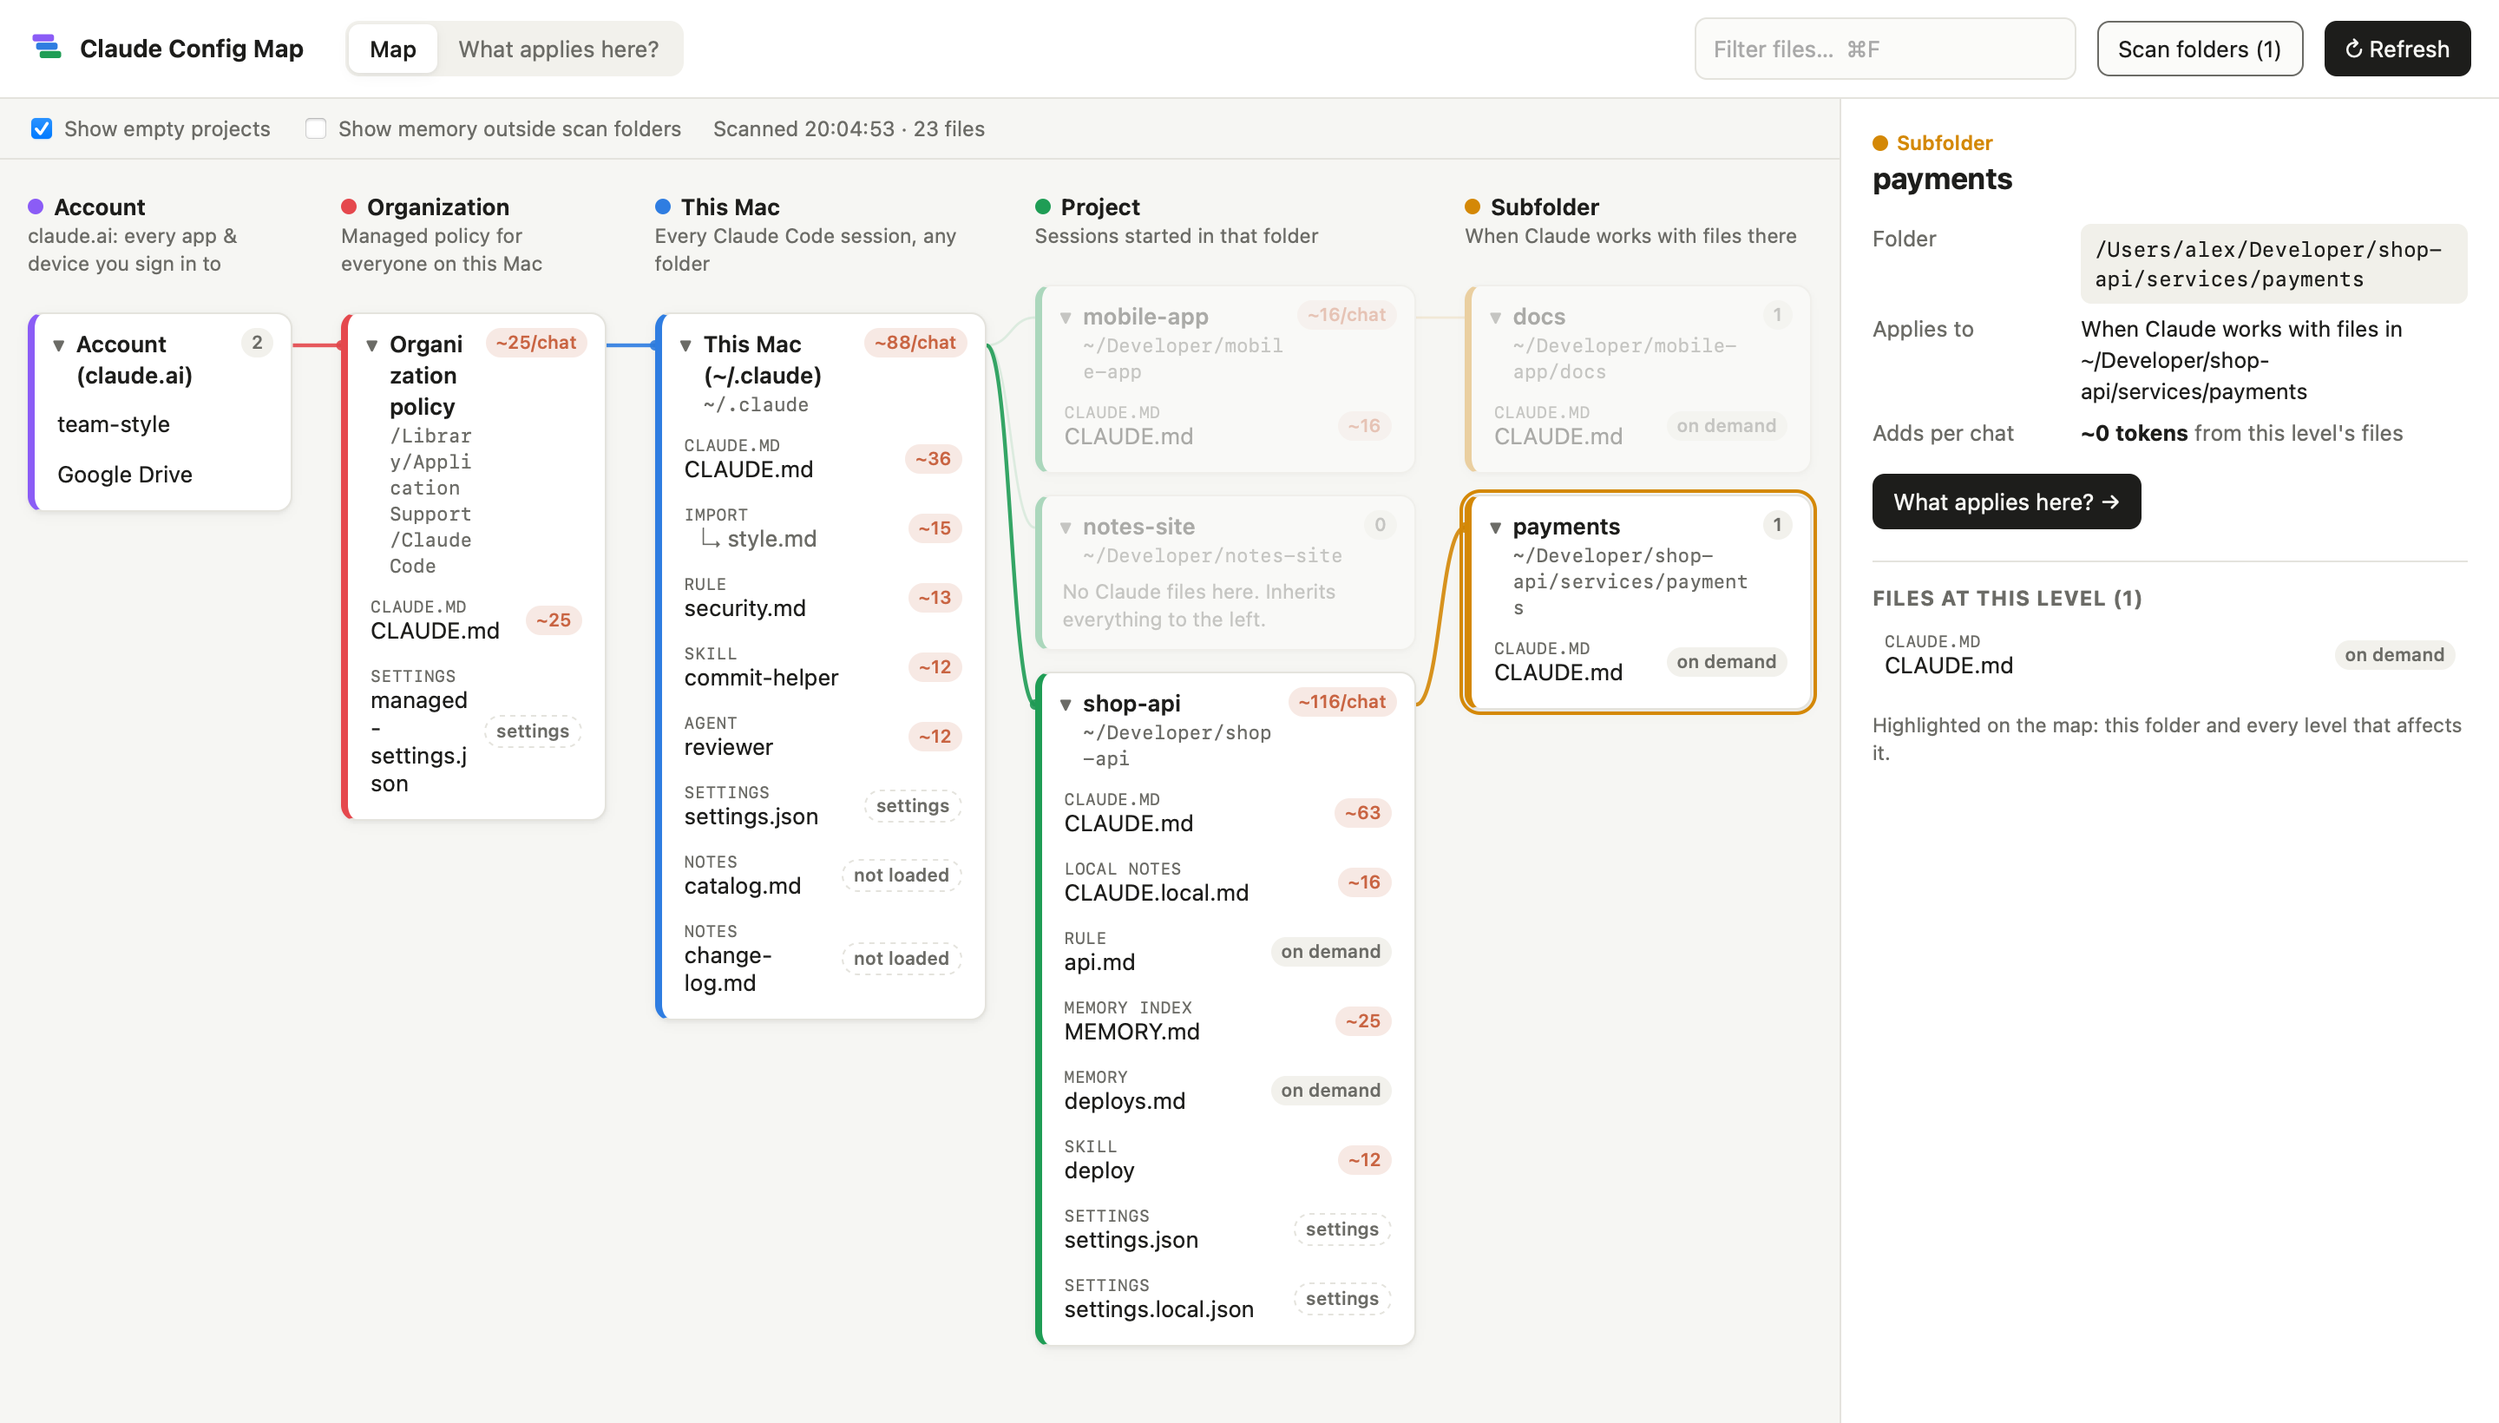
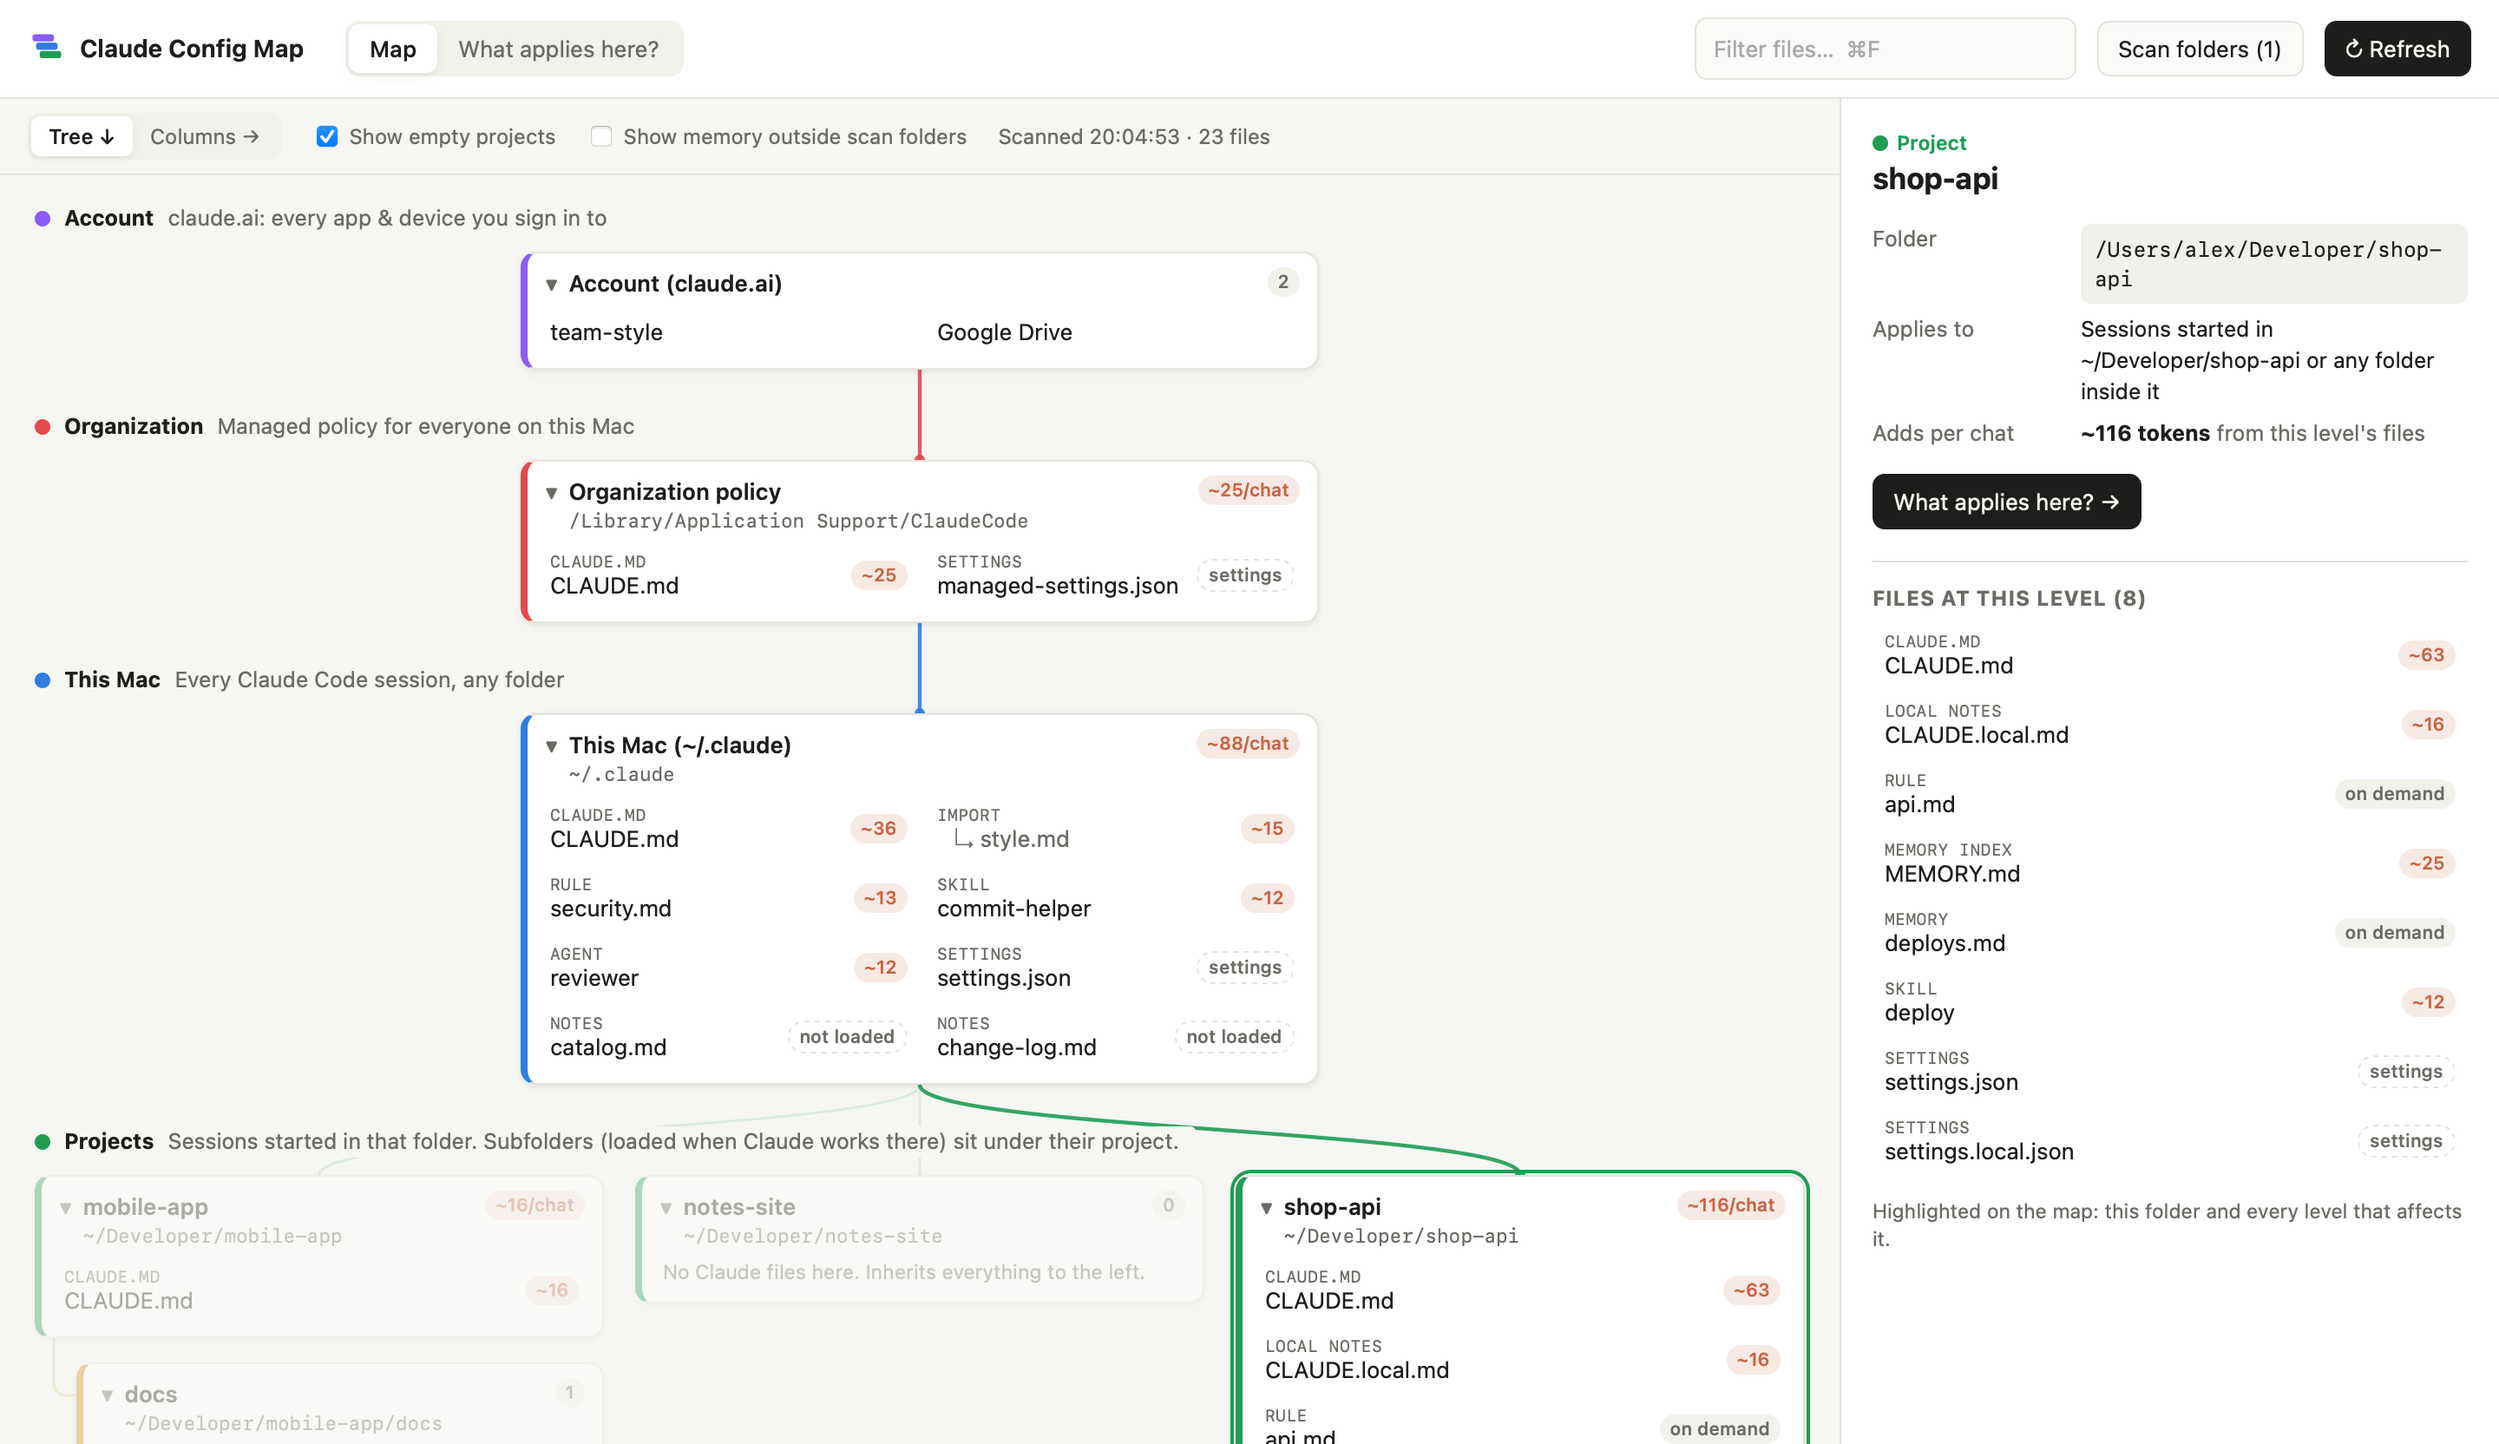
Add top-down tree layout with a Tree/Columns toggle
Tree is the default: levels as rows, projects in a wrapping grid, subfolders
nested under their project. The choice is remembered per viewer.

diff --git a/Resources/web/app.js b/Resources/web/app.js
@@ -40,7 +40,8 @@
 
   // ---------- state ----------
   const S = { data: null, view: 'map', sel: null, selScope: null, filter: '', stack: null, stackPath: null, raw: false,
-              optEmpty: true, optOutside: false, collapsed: new Set() };
+              optEmpty: true, optOutside: false, collapsed: new Set(), layout: 'tree' };
+  try { const l = localStorage.getItem('layout'); if (l === 'tree' || l === 'columns') S.layout = l; } catch (e) { /* storage unavailable */ }
   let scopeById = {}, filesByScope = {}, childrenOf = {}, fileById = {};
 
   function index() {
@@ -120,9 +121,21 @@
   function renderMap() {
     if (!S.data) return;
     const hl = highlightSet();
-    const cols = LEVELS.map(L => {
+    const map = $('#map');
+    map.classList.toggle('tree', S.layout === 'tree');
+    document.querySelectorAll('.layout-toggle button').forEach(b => b.classList.toggle('active', b.dataset.layout === S.layout));
+    map.innerHTML = (S.layout === 'tree' ? treeHTML(hl) : columnsHTML(hl)) + '<svg class="links"></svg>';
+    map.style.setProperty('--subcol', S.data.scopes.some(s => s.level === 'subfolder') ? 'minmax(200px, 1fr)' : 'minmax(130px, .5fr)');
+    requestAnimationFrame(drawLinks);
+  }
+
+  const projectSort = (a, b) => (!!a.outside - !!b.outside) || (!a.folder - !b.folder) || a.label.localeCompare(b.label);
+
+  // Left-to-right: one column per level.
+  function columnsHTML(hl) {
+    return LEVELS.map(L => {
       let scopes = S.data.scopes.filter(s => s.level === L.key && visible(s));
-      if (L.key === 'project') scopes.sort((a, b) => (!!a.outside - !!b.outside) || (!a.folder - !b.folder) || a.label.localeCompare(b.label));
+      if (L.key === 'project') scopes.sort(projectSort);
       if (L.key === 'subfolder') { // keep subfolders roughly in their project's order
         const order = S.data.scopes.filter(s => s.level === 'project').map(s => s.id);
         const top = s => { let x = s; while (x && x.level === 'subfolder') x = scopeById[x.parent]; return x ? order.indexOf(x.id) : 0; };
@@ -131,9 +144,25 @@
       return `<div class="col" data-level="${L.key}"><div class="col-head"><div class="t"><span class="dot" style="background:${lc(L.key)}"></span>${L.name}</div><div class="d">${L.desc}</div></div>
         ${scopes.map(s => cardHTML(s, hl)).join('') || (L.key === 'subfolder' ? '<div class="empty-note">No nested CLAUDE.md or .claude folders in subfolders.</div>' : '')}</div>`;
     }).join('');
-    $('#map').innerHTML = cols + '<svg class="links"></svg>';
-    $('#map').style.setProperty('--subcol', S.data.scopes.some(s => s.level === 'subfolder') ? 'minmax(200px, 1fr)' : 'minmax(130px, .5fr)');
-    requestAnimationFrame(drawLinks);
+  }
+
+  // Top-down: one row per level; subfolders nest under their project.
+  function treeHTML(hl) {
+    const head = (key, name, desc) => `<div class="tier-head"><span class="dot" style="background:${lc(key)}"></span><strong>${name}</strong><span class="muted">${desc}</span></div>`;
+    const tier = (key, name, desc, inner) => `<div class="tier" data-level="${key}">${head(key, name, desc)}${inner}</div>`;
+    let html = ['account', 'org', 'mac'].map(k => {
+      const L = LEVELS.find(x => x.key === k);
+      return tier(k, L.name, L.desc, `<div class="tier-cards">${S.data.scopes.filter(s => s.level === k).map(s => cardHTML(s, hl)).join('')}</div>`);
+    }).join('');
+    const folders = S.data.scopes.filter(s => s.folder && visible(s));
+    if (folders.length) html += tier('folder', 'Parent folders', 'A CLAUDE.md here applies to every project inside', `<div class="tier-cards">${folders.map(s => cardHTML(s, hl)).join('')}</div>`);
+    const subs = id => (childrenOf[id] || []).map(c => scopeById[c]).filter(s => s.level === 'subfolder')
+      .map(s => `<div class="sub">${cardHTML(s, hl)}${subs(s.id)}</div>`).join('');
+    const projects = S.data.scopes.filter(s => s.level === 'project' && !s.folder && visible(s)).sort(projectSort);
+    const grid = projects.map(p => { const k = subs(p.id); return `<div class="pgroup">${cardHTML(p, hl)}${k ? `<div class="subs">${k}</div>` : ''}</div>`; }).join('');
+    html += tier('project', 'Projects', 'Sessions started in that folder. Subfolders (loaded when Claude works there) sit under their project.',
+      `<div class="pgrid">${grid || '<div class="empty-note">No projects yet. Add a scan folder.</div>'}</div>`);
+    return html;
   }
 
   function drawLinks() {
@@ -141,19 +170,32 @@
     if (!svg) return;
     const mr = map.getBoundingClientRect();
     const hl = highlightSet();
+    const tree = S.layout === 'tree';
     const pos = {};
-    map.querySelectorAll('.card').forEach(c => { const r = c.getBoundingClientRect(); pos[c.dataset.scope] = { l: r.left - mr.left, r: r.right - mr.left, y: r.top - mr.top + 19 }; });
+    map.querySelectorAll('.card').forEach(c => {
+      const r = c.getBoundingClientRect();
+      pos[c.dataset.scope] = { l: r.left - mr.left, r: r.right - mr.left, t: r.top - mr.top, b: r.bottom - mr.top, cx: (r.left + r.right) / 2 - mr.left, y: r.top - mr.top + 19 };
+    });
     let paths = '';
     for (const s of S.data.scopes) {
       const a = pos[s.parent], b = pos[s.id];
       if (!a || !b) continue;
       const on = hl ? (hl.has(s.id) && hl.has(s.parent)) : true;
       const col = lc(s.level === 'project' && s.folder ? 'folder' : s.level);
-      let d;
-      if (Math.abs(a.l - b.l) < 5) { const x = a.l - 2; d = `M${x},${a.y} C${x - 26},${a.y} ${x - 26},${b.y} ${x},${b.y}`; }
-      else { const x1 = a.r, x2 = b.l, mx = (x1 + x2) / 2; d = `M${x1},${a.y} C${mx},${a.y} ${mx},${b.y} ${x2},${b.y}`; }
+      let d, dot;
+      if (tree && s.level === 'subfolder') { // elbow from the parent's left edge down into the nested card
+        const x = a.l + 11;
+        d = `M${x},${a.b} L${x},${b.y - 8} Q${x},${b.y} ${x + 8},${b.y} L${b.l},${b.y}`; dot = [b.l, b.y];
+      } else if (tree) {
+        const my = (a.b + b.t) / 2;
+        d = `M${a.cx},${a.b} C${a.cx},${my} ${b.cx},${my} ${b.cx},${b.t}`; dot = [b.cx, b.t];
+      } else if (Math.abs(a.l - b.l) < 5) {
+        const x = a.l - 2; d = `M${x},${a.y} C${x - 26},${a.y} ${x - 26},${b.y} ${x},${b.y}`; dot = [x, b.y];
+      } else {
+        const x1 = a.r, x2 = b.l, mx = (x1 + x2) / 2; d = `M${x1},${a.y} C${mx},${a.y} ${mx},${b.y} ${x2},${b.y}`; dot = [x2, b.y];
+      }
       paths += `<path d="${d}" fill="none" stroke="${col}" stroke-width="${hl && on ? 2.2 : 1.4}" stroke-opacity="${hl ? (on ? 0.9 : 0.12) : 0.45}"/>`;
-      if (!hl || on) paths += `<circle cx="${Math.abs(a.l - b.l) < 5 ? b.l - 2 : b.l}" cy="${b.y}" r="3" fill="${col}" fill-opacity="${hl ? 0.9 : 0.6}"/>`;
+      if (!hl || on) paths += `<circle cx="${dot[0]}" cy="${dot[1]}" r="3" fill="${col}" fill-opacity="${hl ? 0.9 : 0.6}"/>`;
     }
     svg.setAttribute('width', map.scrollWidth); svg.setAttribute('height', map.scrollHeight);
     svg.innerHTML = paths;
@@ -320,6 +362,8 @@
   document.addEventListener('click', async e => {
     const t = e.target;
     const tab = t.closest('.tabs button'); if (tab) return setView(tab.dataset.view);
+    const lay = t.closest('.layout-toggle button');
+    if (lay) { S.layout = lay.dataset.layout; try { localStorage.setItem('layout', S.layout); } catch (e) { /* ignore */ } renderMap(); return; }
     if (t.closest('#rootsBtn')) { $('#rootsPop').hidden = !$('#rootsPop').hidden; return; }
     if (t.closest('#addRoot')) { $('#rootsPop').hidden = true; if (await call('addRoot')) refresh(); return; }
     const rm = t.closest('[data-remove]'); if (rm) { await call('removeRoot', { path: rm.dataset.remove }); refresh(); return; }
@@ -360,6 +404,7 @@
   window.__refresh = refresh;
   window.__focusSearch = () => { setView('map'); $('#search').focus(); };
   window.__setup = async (o = {}) => {
+    if (o.layout) { S.layout = o.layout; renderMap(); }
     if (o.optOutside) { S.optOutside = true; $('#optOutside').checked = true; renderMap(); }
     if (o.selectFile) { const f = S.data.files.find(x => x.display === o.selectFile || x.id === o.selectFile); if (f) { S.sel = f.id; renderMap(); renderDetail(); } }
     if (o.selectScope) { const s = S.data.scopes.find(x => x.label === o.selectScope); if (s) { S.selScope = s.id; renderMap(); renderDetail(); } }

diff --git a/Resources/web/style.css b/Resources/web/style.css
@@ -88,6 +88,23 @@ main { flex: 1; display: flex; min-height: 0; }
 .ld-on-demand { background: var(--chip); color: var(--muted); }
 .ld-not-in-context, .ld-not-loaded, .ld-account { background: transparent; color: var(--muted); border: 1px dashed var(--line); }
 
+/* Layout toggle */
+.layout-toggle { display: flex; background: var(--chip); border-radius: 7px; padding: 2px; }
+.layout-toggle button { border: 0; background: none; padding: 3px 10px; border-radius: 5px; cursor: pointer; color: var(--muted); font-size: 12px; }
+.layout-toggle button.active { background: var(--panel); color: var(--text); box-shadow: var(--shadow); font-weight: 550; }
+
+/* Tree (top-down) layout */
+.map.tree { display: flex; flex-direction: column; gap: 24px; min-width: 0; padding: 14px 20px 48px; }
+.tier { position: relative; z-index: 1; }
+.tier-head { display: flex; gap: 8px; align-items: baseline; margin-bottom: 10px; font-size: 12.5px; flex-wrap: wrap; width: fit-content; max-width: 100%; background: var(--bg); padding-right: 10px; border-radius: 4px; }
+.tier-head .dot { align-self: center; }
+.tier-cards { display: flex; justify-content: center; gap: 16px; flex-wrap: wrap; }
+.tier-cards .card { width: min(460px, 100%); }
+.tier-cards .card .chips { display: grid; grid-template-columns: repeat(auto-fill, minmax(190px, 1fr)); }
+.pgrid { display: grid; grid-template-columns: repeat(auto-fill, minmax(250px, 1fr)); gap: 22px 18px; align-items: start; }
+.subs { padding-left: 24px; margin-top: 14px; display: flex; flex-direction: column; gap: 12px; }
+.sub > .sub { padding-left: 24px; margin-top: 12px; }
+
 /* Detail panel */
 .detail { width: 380px; flex: none; border-left: 1px solid var(--line); background: var(--panel); overflow: auto; padding: 16px 18px 40px; }
 .detail h2 { margin: 0 0 4px; font-size: 17px; overflow-wrap: anywhere; }

diff --git a/Resources/web/index.html b/Resources/web/index.html
@@ -29,6 +29,7 @@
 <main>
   <section id="mapView" class="view">
     <div class="map-toolbar">
+      <div class="layout-toggle" role="group" aria-label="Layout"><button data-layout="tree" title="Levels top to bottom">Tree ↓</button><button data-layout="columns" title="Levels left to right">Columns →</button></div>
       <label><input type="checkbox" id="optEmpty" checked> Show empty projects</label>
       <label><input type="checkbox" id="optOutside"> Show memory outside scan folders</label>
       <span id="mapStatus" class="muted"></span>

diff --git a/README.md b/README.md
@@ -2,9 +2,9 @@
 
 A small Mac app that shows, visually, every **Claude Code** instruction and config file on your Mac and how they stack: which file affects which sessions and folders, and how many tokens each one adds to every chat.
 
-![Map view](docs/screenshots/map.png)
+![Map view, tree layout](docs/screenshots/tree.png)
 
-- **Map:** every file by level (Account → Organization → This Mac → Project → Subfolder), with lines showing what applies to what. Click a file to see what it applies to. Click a folder to see everything that affects it.
+- **Map:** every file by level (Account → Organization → This Mac → Project → Subfolder), with lines showing what applies to what. Show it as a top-down **Tree** (subfolders nested under their project) or as left-to-right **Columns**. Click a file to see what it applies to. Click a folder to see everything that affects it.
 - **What applies here?** Pick any folder to see the exact stack of files a Claude Code session there loads, in load order, with a per-chat token estimate.
 - **File details:** full path, rendered contents, what it applies to, last modified date, and an estimated token cost marked *loaded in every chat* or *loaded on demand*.
 - **Private and offline:** read-only, no network access, no dependencies. Nothing is sent anywhere.
@@ -30,7 +30,13 @@ Requires macOS 12 or later, on Apple Silicon or Intel.
 - **Show memory outside scan folders** also lists auto-memory folders Claude Code keeps for folders you haven't added.
 - **Show in Finder / Copy path** on any file.
 
+- **Tree ↓ / Columns →** switches the map layout; the app remembers your choice.
+
 ![Folder selected](docs/screenshots/folder.png)
+
+The same map as columns:
+
+![Columns layout](docs/screenshots/columns.png)
 
 ## What it scans
 
